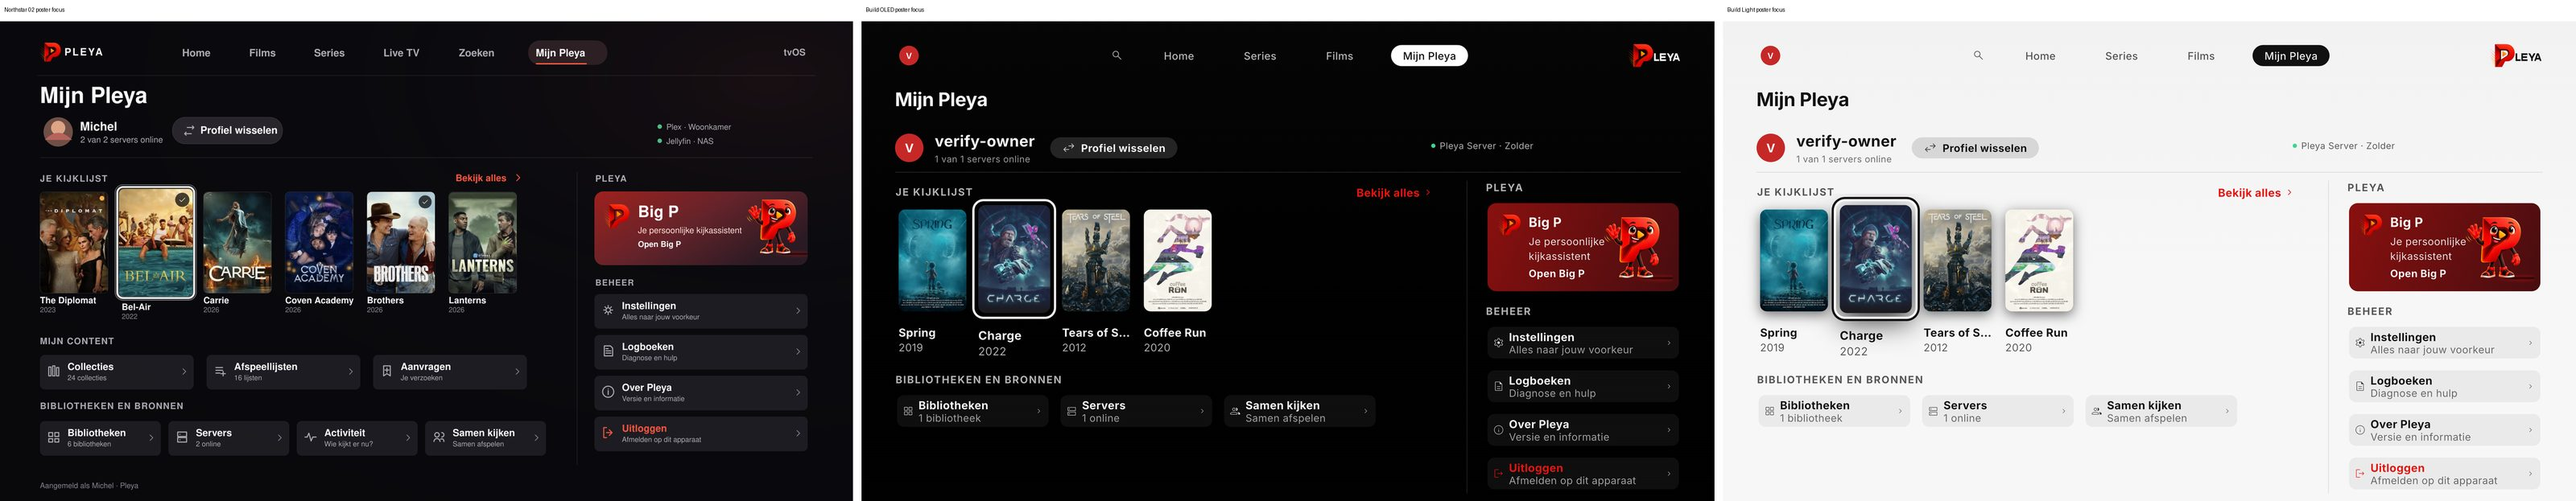
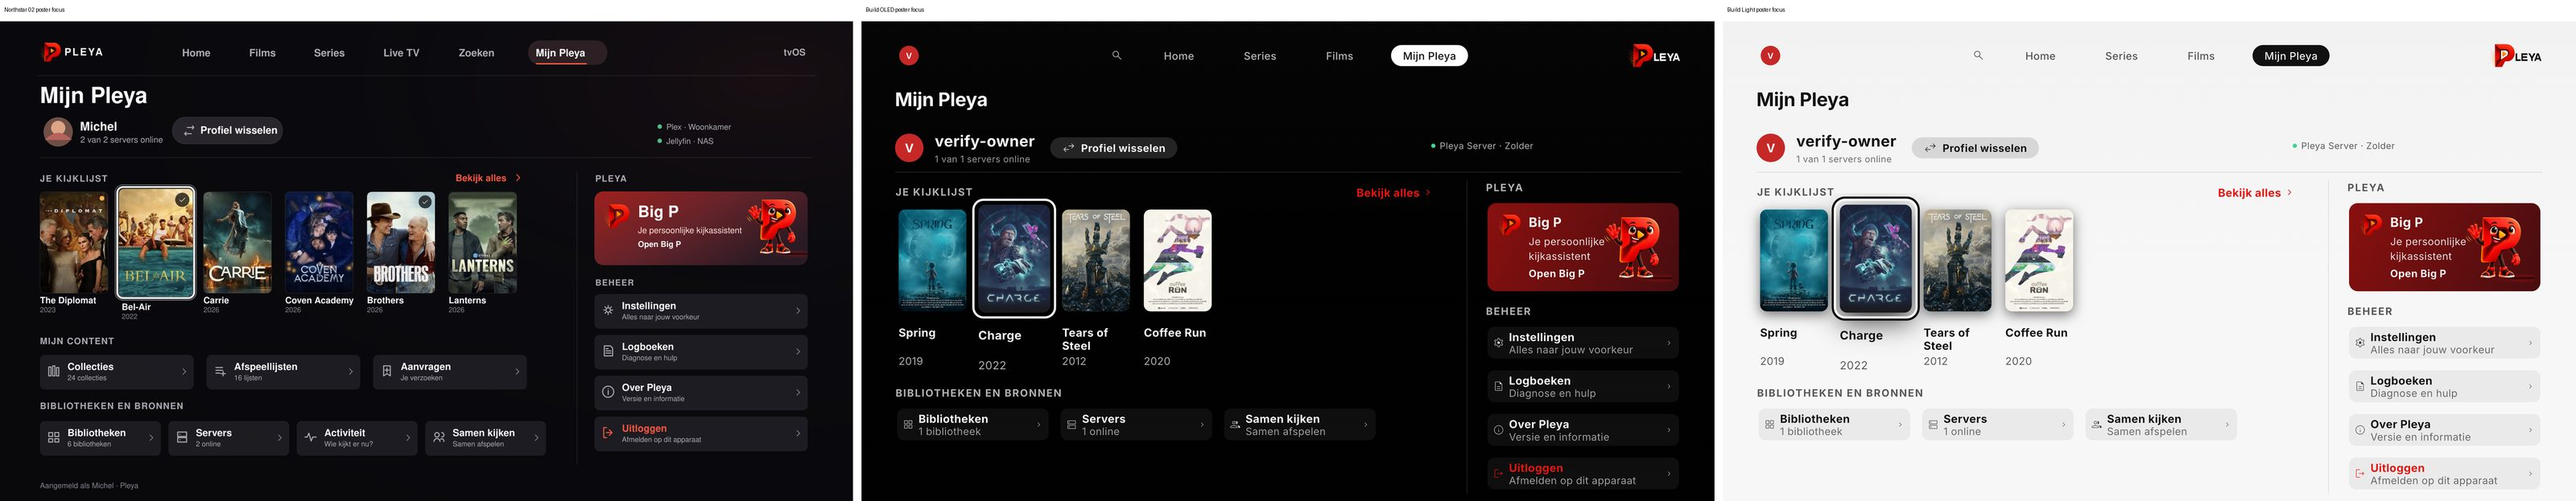
docs, verify: A-24b review round evidence, Michel's decisions, refreshed sheets
- AFWIJKINGEN_A24B.md: Michel's decisions of 25 October per line, the review
  round (C1, I1-I5, M1-M3, M5 fixed; M4, M6, M7, M8 as follow-ups) and the
  review-fix Verify round.
- DECISIONS DEC-XXX (own entry only): what is true about automation ids, and
  one line for Michel's decisions.
- PARITEIT_A24B.csv: the deleted test name replaced, profile-bound sources and
  App-taal rows corrected.
- Sheets 01, 02, 06 and the TV poster-focus sheet from the final code.
- Scenarios: tvos.settings.add-pleya-server checks the shell by nav.myPleya;
  new tvos.settings.bigp-inline-back (I4); ios.library.crown-list scrolls Mijn
  Pleya back up before tapping Bibliotheken; ios.scroll-crown.ends on Weergave.

Roadmap: A-24

diff --git a/docs/plans/AFWIJKINGEN_A24B.md b/docs/plans/AFWIJKINGEN_A24B.md
@@ -2,6 +2,8 @@
 
 Roadmap: A-24 (vervolgronde A-24b). Deze lijst loopt [`VISUELE_ACCEPTATIE.md`](../assets/a24b-northstars/VISUELE_ACCEPTATIE.md) regel voor regel langs: per controlepunt het oordeel, wat de build anders doet, waarom, en wie het verschil heeft geaccepteerd of dat het nog openstaat. De beelden staan in [`docs/assets/a24b-vergelijking/`](../assets/a24b-vergelijking/README.md), de route-voor-route-pariteit in [`PARITEIT_A24B.csv`](PARITEIT_A24B.csv).
 
+**Besluit Michel 25 okt 2026** staat hieronder bij de vijf afwijkingen waarover hij die dag besliste: App-taal, de TV-schakelaar, de TV-rechterkolom, de afgekapte kijklijsttitels op TV en de groepsnamen in Licht.
+
 Oordelen: **Match** (de build toont wat de northstar toont), **Match met verschil** (structuur en inhoud kloppen, een detail wijkt af), **Afwijking** (zichtbaar anders), **Voorwaardelijk** (de functie bestaat, maar de code toont hem in de vastgelegde staat niet). "Open" betekent dat Michel er nog niet over besloten heeft. Alle beelden komen uit simulators; niets is op een echte iPhone of Apple TV bekeken.
 
 ## Instellingen op Apple TV
@@ -14,8 +16,8 @@ Bladen: `03-appletv-instellingen-donker.jpg`, `04-appletv-instellingen-licht.jpg
 | Header | Match met verschil | `Instellingen` en `Jouw kijkervaring, tot in detail.` staan er in dezelfde hiërarchie. Boven de pagina staat de bestaande TV-bovenbalk in plaats van het logo met kruimelpad `Mijn Pleya > Instellingen`. | De bouwopdracht vraagt de topnavigatie te behouden; daarmee geaccepteerd. |
 | Actieve sectie | Match | `WEERGAVE` boven `Zo ziet jouw Pleya eruit`, de gekozen categorie gemarkeerd in de rail. De build zet er groepskoppen onder (`SCHERM`), omdat Weergave op TV meer rijen heeft dan het bord. | Geen besluit nodig. |
 | Achtergrond | Match | Donker: warme wash over `#141414`. Licht: warm gebroken wit (`#F9F5F2`). OLED blijft zwart zonder wash, zodat OLED zijn reden houdt. Contrast getoetst in `tv_settings_studio_contrast_test`. | OLED zonder wash is een keuze uit fase 1; open voor Michel als hij de wash ook op OLED wil. |
-| Rijen | Match met verschil | Fijne scheiding, waarde rechts, één focusring. De rijen zelf volgen de bestaande voorkeuren: de build toont Thema, Taal, Liquid Glass, Raster- of lijstweergave, Dichtheid, de northstar Thema, Visuele effecten, Liquid Glass, Raster, Afleveringsposters. App-taal heeft geen plek in de reeks en staat onder Thema. | Welke rijen bestaan beslist de code (BOUWOPDRACHT, "Betekenis van pariteit"). De plek van App-taal: open. |
-| Directe schakelaar | Match met verschil | Select op de hele rij zet de waarde om, de schakelaar is geen tweede focusstop en de waarde wordt bewaard (`settings_tv_page_test`, "SELECT on a switch row flips it in place, one stop per row"). De schakelaar is een getekende pil in Studio-koraal, geen echt Liquid Glass-materiaal. Anker 04 schrijft "Aan" als tekst; de build toont ook in Licht de pil. | Open. |
+| Rijen | Match met verschil | Fijne scheiding, waarde rechts, één focusring. De rijen zelf volgen de bestaande voorkeuren: de build toont Thema, Liquid Glass, Raster- of lijstweergave, Dichtheid, de northstar Thema, Visuele effecten, Liquid Glass, Raster, Afleveringsposters. App-taal staat niet meer in Weergave maar als eerste rij van Taal en ondertitels. | Welke rijen bestaan beslist de code (BOUWOPDRACHT, "Betekenis van pariteit"). **Besluit Michel 25 okt 2026, veranderd:** App-taal als eigen rij boven de audio- en ondertitelvoorkeuren, op iPhone en TV, id `setting.app_locale` gelijk gebleven. |
+| Directe schakelaar | Match met verschil | Select op de hele rij zet de waarde om, de schakelaar is geen tweede focusstop en de waarde wordt bewaard (`settings_tv_page_test`, "SELECT on a switch row flips it in place, one stop per row"). De schakelaar is een getekende pil in Studio-koraal, geen echt Liquid Glass-materiaal. Anker 04 schrijft "Aan" als tekst; de build toont ook in Licht de pil. VoiceOver leest de rij als schakelaar met aan/uit en de verborgen uitleg als hint (`settings_row_anatomy_test`). | **Besluit Michel 25 okt 2026, geaccepteerd:** de pil blijft, zolang aan/uit en focus duidelijk zijn en de rij één bedienbaar element is zonder tweede focusstop. |
 | Voorbeeldkaart | Match | `LIVE VOORBEELD`, drie posters uit de bibliotheek, `Jouw bibliotheek`, de modusregel uit de actuele voorkeur en `Bekijk voorbeeld`, dat Bibliotheken opent. Zonder Home-items houdt de kaart titel en modusregel (`settings_tv_page_test`, "without items it keeps its text"). Op Afspelen toont de kaart Afspeelervaring met de standaardkwaliteit, niet de tijd- en spoorregel van het bord. | Afspeelervaring: open. |
 
 ## Instellingen op iPhone
@@ -25,9 +27,9 @@ Bladen: `01-iphone-instellingen-donker.jpg`, `02-iphone-instellingen-licht.jpg`,
 | Controle | Oordeel | Wat de build anders doet, en waarom | Besluit |
 | --- | --- | --- | --- |
 | Kop en media | Match met verschil | `Instellingen`, `PLEYA · PERSOONLIJK`, `Maak Pleya helemaal van jou.` en een filmbeeld uit de geladen titels. Zonder titels of zonder klaar staande server een merkpaneel in plaats van een kapot beeld (`settings_studio_header_test`). Een subpaginatitel die niet naast het beeld past breekt af naar twee regels; de reeks laat hem over het beeld lopen. | Twee regels: open. |
-| Structuur | Match met verschil | `VOOR JOU` en `VERBINDINGEN EN PROFIELEN` in het startbeeld, `SYSTEEM` (Geavanceerd, Back-up, Over Pleya) verderop. Ondertitelstijl is een eigen rij in Voor jou. Big P staat alleen in Verbindingen en profielen als de build Big P heeft; het vernieuwde blad `01` komt uit zo'n build en toont hem tussen Koppelingen en Profielen, zoals bord 01. Het lichte bord 03 gebruikt de groepsnamen `KIJKEN` en `JOUW PLEYA`; de build houdt in elk thema de namen van bord 01, die ook in VISUELE_ACCEPTATIE staan. | Groepsnamen: gekozen volgens VISUELE_ACCEPTATIE, Michel kan dat omdraaien. |
+| Structuur | Match | `VOOR JOU` en `VERBINDINGEN EN PROFIELEN` in het startbeeld, `SYSTEEM` (Geavanceerd, Back-up, Over Pleya) verderop. Ondertitelstijl is een eigen rij in Voor jou. Big P staat alleen in Verbindingen en profielen als de build Big P heeft; het vernieuwde blad `01` komt uit zo'n build en toont hem tussen Koppelingen en Profielen, zoals bord 01. Het lichte bord 03 gebruikt de groepsnamen `KIJKEN` en `JOUW PLEYA`; de build houdt in elk thema de namen van bord 01. | **Besluit Michel 25 okt 2026:** een thema verandert kleuren, geen structuur of namen; Licht gebruikt Voor jou, Verbindingen en profielen en Systeem (`settings_phone_page_test`, per thema). |
 | Rijen | Match | Compacte lijst van 50 pt, dunne scheiding, lijniconen zonder vierkant badge op de hoofdpagina, geen iconen op subpagina's, uitleg als VoiceOver-hint (`settings_row_anatomy_test`). Geen tegels meer. | Geen besluit nodig. |
-| Weergave | Match met verschil | Bovenaan de kaart `Live voorbeeld` met een poster, `Jouw bibliotheek` en de modusregel; daaronder Thema met de waarde en directe schakelaars. Liquid Glass staat in de fixture uit, op het bord aan. App-taal staat als laatste rij in Scherm, Dichtheid na Raster of lijst (anker 03). | App-taal: open. |
+| Weergave | Match met verschil | Bovenaan de kaart `Live voorbeeld` met een poster, `Jouw bibliotheek` en de modusregel; daaronder Thema met de waarde en directe schakelaars. Liquid Glass staat in de fixture uit, op het bord aan. Dichtheid staat na Raster of lijst (anker 03). App-taal staat sinds het besluit van 25 oktober niet meer hier. | **Besluit Michel 25 okt 2026:** App-taal naar Taal en ondertitels (`language_settings_screen_test`). |
 | Gedrag | Match met verschil | Zoeken vindt dezelfde bestemmingen (`settings_search_test`, `settings_hub_pages_test`). Na scrollen schuift een compacte balk met de titel over de pagina en bij terugscrollen weer weg (`dark-main-scrolled`). Terug zit als chevron op de titelregel (`settings.back`, `settings_studio_header_test`). De tabbalk blijft onder Instellingen staan, het bord tekent er geen. | Tabbalk is shell en valt buiten A-24b; open als Michel hem binnen Instellingen weg wil. |
 
 ## Mijn Pleya op iPhone (Editorial)
@@ -49,10 +51,10 @@ Bladen: `06-appletv-mijn-pleya.jpg`, `appletv-mijn-pleya-*.jpg`.
 | Controle | Oordeel | Wat de build anders doet, en waarom | Besluit |
 | --- | --- | --- | --- |
 | Top | Match met verschil | Titel, profielregel met `Profiel wisselen` en een niet-focusbare serverstatus (`Pleya Server · Zolder` in de fixture). Eén focus; terugkomen herstelt de laatst gefocuste actie (`tv_my_pleya_screen_test`, Verify `tvos.my-pleya.editorial`). De bovenbalk is de bestaande TV-shell, zonder Live TV en Zoeken als tekst. | Shell valt buiten A-24b. |
-| Kijklijst | Match met verschil | Brede rail met posters, titel en jaar, `Bekijk alles`; links en rechts zonder overlap (blad `posterfocus`). Een lange titel wordt afgekapt op 153 pt ("Tears of S..."). | Afkappen: open. |
+| Kijklijst | Match met verschil | Brede rail met posters, titel en jaar, `Bekijk alles`; links en rechts zonder overlap (blad `posterfocus`). De kaart reserveert nu twee titelregels, zodat een titel als "Tears of Steel" heel leesbaar is, zonder kleinere letter en zonder dat een kaart verschuift; de rail schuift mee met de focus, ook bij twaalf posters (`tv_my_pleya_screen_test`). | **Besluit Michel 25 okt 2026, veranderd:** gefocuste titel volledig leesbaar, maximaal twee regels. |
 | Mijn content | Voorwaardelijk | Aanvragen verschijnt met Seerr (blad `conditioneel`, rechts). Collecties en Afspeellijsten bestaan en zijn getest, maar de fixture levert ze niet, dus ze staan op geen screenshot. Zonder modules verdwijnt de groep en loopt de focus door (blad `conditioneel`, midden). De ondertitel van Aanvragen is die van de iPhone. | Volgt de code. |
 | Bronnen | Match met verschil | Bibliotheken, Servers en Samen kijken met aantal als ondertitel. Activiteit volgt de oude voorwaarde en zit niet in de fixture. | Volgt de code. |
-| Rechterkant | Match met verschil | Big P-kaart en Beheer met Instellingen, Logboeken, Over Pleya en een rode Uitloggen; terug uit Instellingen landt weer op Instellingen. De kolom is 440 pt in plaats van 480 en de Big P-ondertitel loopt over twee regels, zodat vier tegels op 23 pt passen zonder afkapping. De regel "Aangemeld als" staat onder de vouw tot de focus rechts staat. | Breedte en voetregel: open. |
+| Rechterkant | Match met verschil | Big P-kaart en Beheer met Instellingen, Logboeken, Over Pleya en een rode Uitloggen; terug uit Instellingen landt weer op Instellingen. De kolom is 440 pt in plaats van 480 en de Big P-ondertitel loopt over twee regels, zodat vier tegels op 23 pt passen zonder afkapping. De regel "Aangemeld als" staat onder de vouw tot de focus rechts staat. | **Besluit Michel 25 okt 2026, geaccepteerd:** 440 pt, leesbaarheid en bereikbaarheid gaan voor pixelpariteit. Voetregel: open. |
 | Thema | Afwijking | Donker en Licht met leesbare focusring en posters. Het lichte bord 05 heeft een warme gebroken-witte wash; de build houdt in Licht het monoTheme-grijs. | Geaccepteerd: productbesluit 2 in `START-HIER.md` (warm gebroken wit alleen binnen Instellingen) en Michels bevestiging in fase 5. |
 
 ## Pariteit per route
@@ -61,7 +63,7 @@ Bladen: `06-appletv-mijn-pleya.jpg`, `appletv-mijn-pleya-*.jpg`.
 
 De acht rijen ALLEEN MOCKUP zijn geen functie in de code: Bronnaam en server bij elke bron, Verborgen bibliotheken blijven bewaard, Downloadmap bekijken, Opslag en status controleren, Nooit automatisch sync inschakelen, Gezinsbeperkingen, Kindvriendelijke antwoorden en op TV Navigatiebreedte en focus. Bouwen vraagt een productbesluit en valt buiten deze ronde.
 
-De 27 rijen AFWIJKING bestaan wel, maar anders dan het bord ze tekent. De meeste zijn een functie zonder eigen rij: toestemming voor sync is een dialoog bij het inschakelen, configuratie per provider wisselt de velden in plaats van een pagina, bronnen per profiel zitten in Verbinding toevoegen, zoeken in het geheugen is een filter. Updates verschijnt alleen met een build-define en is in App Store-builds verborgen. Uitloggen blijft in Mijn Pleya en krijgt geen tweede ingang in Instellingen. Op iPhone opent Home aanpassen voor slepen en verbergen de bestaande editor in plaats van dat per rij te doen.
+De 27 rijen AFWIJKING bestaan wel, maar anders dan het bord ze tekent. De meeste zijn een functie zonder eigen rij: toestemming voor sync is een dialoog bij het inschakelen, configuratie per provider wisselt de velden in plaats van een pagina, bronnen per profiel staan op de bronpagina van hun soort en op de profielpagina, zoeken in het geheugen is een filter. Updates verschijnt alleen met een build-define en is in App Store-builds verborgen. Uitloggen blijft in Mijn Pleya en krijgt geen tweede ingang in Instellingen. Op iPhone opent Home aanpassen voor slepen en verbergen de bestaande editor in plaats van dat per rij te doen.
 
 ## Tests per gevraagde klasse
 
@@ -76,6 +78,21 @@ De 27 rijen AFWIJKING bestaan wel, maar anders dan het bord ze tekent. De meeste
 | Grotere tekst en breedtes | `test/screens/tv/tv_my_pleya_screen_test.dart` (dubbele tekstgrootte, geen afkapping), `test/screens/settings/settings_studio_shots_test.dart` (320, 390, 1280, 1440 en 1920 pt) en `test/screens/my_pleya_shots_test.dart` (320 en 390 pt) |
 
 De VoiceOver-test van fase 6 vond een echte fout: de rijen, de Big P-kaart en de posters van iPhone Mijn Pleya hadden een label maar geen actie, omdat `excludeSemantics` ook de tikactie van de InkWell wegnam. Hersteld in `bd1b80cc`; de test is rood zonder die fix.
+
+## Reviewronde (PR #500)
+
+Een onafhankelijke review vond één Critical en vijf Important; elk is geverifieerd en hersteld met een test die zonder de fix rood is (`819e0997`):
+
+- C1: Koppelingen ▸ Verbinding toevoegen opende de toevoegschermen op TV als geneste route; hun `Navigator.pop(true)` haalde daarna MainScreen weg. Op de tvOS-simulator vooraf bevestigd met het nieuwe scenario `tvos.settings.add-pleya-server` (na een geslaagde toevoeging stond er geen shell meer). Ze openen nu als echte route, zoals `AddConnectionScreen` dat deed.
+- I1: bewerken van een Jellyfin- of Emby-bron vanuit Servers en bronnen bindt het actieve profiel opnieuw, zoals de profielpagina (`connections_section_test`).
+- I2: TV ▸ Home aanpassen ▸ Eigen rij toevoegen opent de TV-wizard (`tv_home_custom_rows_test`).
+- I3: de TV-kijklijstrail schuift mee met de focus (`tv_my_pleya_screen_test`, twaalf posters).
+- I4: in de Big P-categorie stapt Menu eerst terug uit een conceptprovider (`assistant_settings_screen_test`, scenario `tvos.settings.bigp-inline-back`).
+- I5: een schakelaarrij leest zijn verborgen uitleg als VoiceOver-hint; bij beide schakelaarrijen zat de hint buiten de samengevoegde schakelaarknoop en ging verloren (`settings_row_anatomy_test`).
+- M5: koraal als tekst is in Licht `#AD412E` (4,5:1 op kaart, pagina en `#F1E8E3`); de schakelaar houdt `#C94E3C`.
+- M1 tot en met M3: DEC-XXX en de pariteitstabel zeggen nu wat waar is over automation-ids, testnamen en bronnen per profiel.
+
+Vervolgpunten, niet in deze PR: M4 (een rij "…-bronnen beheren" verschijnt ook als alleen een ander profiel die bron heeft en opent dan een lege lijst), M6 (enkele bevestigingsdialogen in Instellingen tonen het monoTheme-palet), M7 (de verwijderkiezer voor een eigen rij opent op TV zonder focus; de Big P-categorie trekt na SELECT de focus naar zich toe), M8 (`settings_section.dart` is 540 regels).
 
 ## Bewijsronde fase 6
 
@@ -97,11 +114,20 @@ Niet gedraaid: `ios.library.local-offline` en `ios.library.local-storage`, omdat
 
 Goldens: elke `tv_shell_*`-golden uit `test/goldens/tv_root_shell_golden_test.dart` gebruikt de Mijn Pleya-hub als inhoud, dus alle negen veranderden (`tv_shell_my_pleya`, `_focused`, `_full`, `tv_shell_auth_my_pleya`, `tv_shell_auth_attention`, `tv_shell_home_active`, `tv_shell_focus_not_active`, `tv_shell_live_tv_present`, `tv_shell_long_locale`). De test voor de volledige hub zocht nog de oude Kijklijst-tegel; hij controleert nu de rail (`b41765d9`). De beelden zijn via `goldens.yml` op de CI-runner opnieuw gemaakt, bekeken en gecommit (`a36179a5`).
 
+### Ronde na de review
+
+Eén Apple TV-build en één iPhone SE-build van `819e0997`, de SE-simulator vooraf herstart. Apple TV: `tvos.settings.add-pleya-server` (C1), `tvos.settings.bigp-inline-back` (I4), `tvos.my-pleya.editorial` (twee titelregels, de nieuwe bladen), `tvos.settings.studio`, `tvos.my-pleya.section-settings`, `tvos.settings.language.walk` en `tvos.settings.language-preferences` (App-taal als eerste rij van Taal): alle PASS. Het C1-scenario faalde in de eerste run alleen op een eigen fout (het controleerde `nav.bar`, een iPhone-id); na die correctie PASS. Hetzelfde scenario op de build van vóór de fix liet na de toevoeging geen shell meer over.
+
+iPhone SE: `a24b.ios.settings.phase2` PASS (groepsnamen in Licht gelijk aan Donker en OLED, App-taal in Taal). `ios.library.crown-list` PASS na een scenariofix: het scenario scrolde in fase 4 Mijn Pleya omlaag naar Instellingen en tikte later op Bibliotheken terwijl die rij boven het scherm stond, zodat de tik op de Big P-kaart viel. Het scrolt nu eerst terug naar boven. `ios.scroll-crown.ends` staat nu op Weergave, een pagina lang genoeg voor een kroon; daar haalt één greep de onderkant niet (`at_end` onwaar). Open, niet als groen geteld. `ios.glass.player` faalt op een vaste plek: na Instellingen en Films opent een tik op `landing.view_all[movies]` de catalogus niet. De ui-tree houdt de Instellingen-pagina (`settings.header` op y 0) naast de Films-pagina. Onverklaard, niet bewezen.
+
+`tvos.glass.player`: de spelerstap is op main niet bewezen. De controlerun op main stopte eerder, op de Big P-tegel, en heeft de speler niet bereikt.
+
 ## Wat nog niet bewezen is
 
 - Geen run op een echte iPhone of Apple TV, en geen VoiceOver-ronde op een toestel. Alles hierboven komt uit simulators en widgettests.
-- `ios.library.crown-list` en `ios.glass.player` zijn rood zonder verklaring; `ios.scroll-crown.ends` heeft een nieuwe doelpagina nodig; `tvos.glass.player` is al rood op main.
+- `ios.glass.player` is rood zonder verklaring; `ios.scroll-crown.ends` haalt op Weergave de onderkant niet; `tvos.glass.player` is al rood op main, de spelerstap is daar niet bereikt.
 - `ios.library.local-offline`, `ios.library.local-storage` en `ipados.viewport-density.navigation` zijn niet gedraaid (wifi achter de VPN-route, geen iPad-simulator).
 - De VoiceOver-actie van de Big P-kaart op iPhone zit in de code, maar geen test dekt hem: in testbuilds staat Big P uit.
+- TV ▸ Eigen rij toevoegen (I2) is alleen in een widgettest bewezen, niet op de simulator.
 - Aanvragen, Activiteit, Collecties en Afspeellijsten staan op geen simulatorscreenshot, omdat de fixture ze niet levert; ze zijn alleen in widgettests bewezen.
-- De Apple TV-bladen zijn niet opnieuw gemaakt na fase 3 en 5; de Verify-ronde hierboven liep wel over die schermen.
+- De Apple TV Instellingen-bladen zijn niet opnieuw gemaakt na fase 3; de Verify-rondes hierboven liepen wel over die schermen.

diff --git a/docs/DECISIONS.md b/docs/DECISIONS.md
@@ -5044,7 +5044,8 @@ Migratie `0019_transcode_sessions.sql` (de masterlijst noemde `0017`, dat was be
 **Roadmap:** A-24 (vervolgronde A-24b).
 **Context:** De eerste A-24-ronde gaf Instellingen vooral een andere stijl op de oude indeling en liet Mijn Pleya ongemoeid. Het A-24b-pakket ([`docs/assets/a24b-northstars/`](assets/a24b-northstars/README.md)) maakt de gekozen borden tot de vorm om na te bouwen: Instellingen in richting 02 (Apple TV+ Studio), Mijn Pleya in richting 01 (Editorial), beide op iPhone en Apple TV.
 **Decision:**
-1. De categorieën en groepen van de borden vervangen de oude indeling. Op iPhone heeft de hoofdpagina Voor jou, Verbindingen en profielen en Systeem; op Apple TV een rail met Weergave, Afspelen, Taal en ondertitels, Bibliotheken, Home aanpassen, Koppelingen, Big P (in een build met Big P) en Geavanceerd. Elke bestaande instelling en Mijn Pleya-bestemming houdt een plek; de volledige mapping van oude naar nieuwe plek staat in [`docs/plans/PARITEIT_A24B.csv`](plans/PARITEIT_A24B.csv), met elke automation-id ongewijzigd.
+1. De categorieën en groepen van de borden vervangen de oude indeling. Op iPhone heeft de hoofdpagina Voor jou, Verbindingen en profielen en Systeem; op Apple TV een rail met Weergave, Afspelen, Taal en ondertitels, Bibliotheken, Home aanpassen, Koppelingen, Big P (in een build met Big P) en Geavanceerd. Elke bestaande instelling en Mijn Pleya-bestemming houdt een plek; de volledige mapping van oude naar nieuwe plek staat in [`docs/plans/PARITEIT_A24B.csv`](plans/PARITEIT_A24B.csv). De automation-ids van de bestaande rijen blijven gelijk, ook waar een rij naar een subpagina verhuisde; `settings.appearance.category` verviel met de oude TV-categorieën en er kwamen ids bij voor de nieuwe rijen (`settings.add.*`, `settings.sources.*`).
 2. Warm gebroken wit geldt alleen binnen Instellingen, ook op de onderliggende instellingenpagina's. Mijn Pleya, Home en de rest van de app houden monoTheme, ook in Licht.
 3. De code beslist welke functies bestaan, met hun voorkeur, provider en voorwaarde; de borden beslissen waar en hoe ze verschijnen. Wat alleen op een bord staat wordt niet gebouwd zonder apart besluit, wat alleen in de code bestaat krijgt een plek in de groep die het best past.
+4. Besluiten Michel van 25 oktober 2026 over de open afwijkingen: App-taal staat als eerste rij in Taal en ondertitels; de TV-schakelaar als getekende pil en de rechterkolom van 440 pt zijn geaccepteerd; op TV toont een kijklijstkaart zijn titel op twee gereserveerde regels, zodat de gefocuste titel heel leesbaar is zonder dat een kaart verschuift; de groepsnamen zijn in Licht dezelfde als in Donker en OLED.
 **Consequences:** iPhone en Apple TV delen voor Mijn Pleya één indeling en dezelfde regels voor kijklijst en Big P-kaart. Resterende verschillen met de borden staan per acceptatieregel in [`docs/plans/AFWIJKINGEN_A24B.md`](plans/AFWIJKINGEN_A24B.md); de open punten daar wachten op Michel. Simulatorbewijs is geen hardware-acceptatie. Unified impact: alleen presentatie, geen backend-, bron- of rechtenpad.

diff --git a/docs/assets/a24b-vergelijking/README.md b/docs/assets/a24b-vergelijking/README.md
@@ -29,4 +29,4 @@ De screenshots komen uit Pleya Verify-runs met de fixtures `catalog.studio-art.v
 
 ## Herkomst per blad
 
-De drie iPhone-hoofdbladen (`01`, `02`, `05`) zijn in fase 6 opnieuw gemaakt met de eindcode van de branch (iOS-build met Big P, `bd1b80cc`), omdat fase 3 tot en met 5 gedeelde iPhone-onderdelen nog aanpasten. De overige bladen komen uit de bouwfasen: iPhone Instellingen-vervolgborden van `68a49409`, Apple TV Instellingen van `df4ceefa`, iPhone Mijn Pleya gescrold en leeg van `b7d28c92`, Apple TV Mijn Pleya van `43de9fc9`. Na die standen zijn de Apple TV-schermen alleen via de Verify-ronde van fase 6 nagelopen, zonder nieuwe bladen; zie `AFWIJKINGEN_A24B.md` onder "Bewijsronde fase 6".
+De bladen `01`, `02`, `06` en `appletv-mijn-pleya-posterfocus` zijn na de reviewronde opnieuw gemaakt met de eindcode (`819e0997`): App-taal staat niet meer in Weergave en een TV-kijklijstkaart toont zijn titel op twee regels. Blad `05` komt van `bd1b80cc`, de iPhone-build met Big P van eerder in fase 6. De overige bladen komen uit de bouwfasen: iPhone Instellingen-vervolgborden van `68a49409`, Apple TV Instellingen van `df4ceefa`, iPhone Mijn Pleya gescrold en leeg van `b7d28c92`, Apple TV Mijn Pleya van `43de9fc9`. Na die standen zijn de Apple TV-schermen alleen via de Verify-ronde van fase 6 nagelopen, zonder nieuwe bladen; zie `AFWIJKINGEN_A24B.md` onder "Bewijsronde fase 6".
